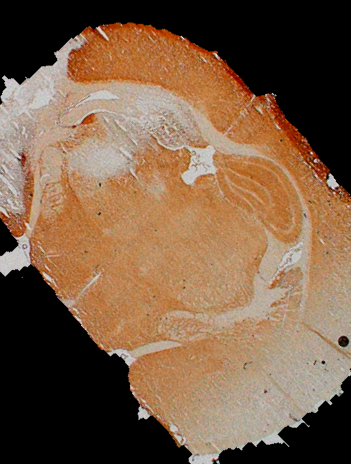
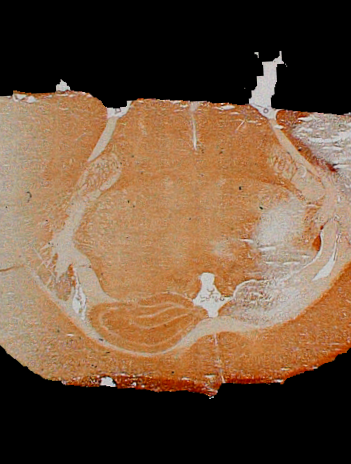
Alignment using PCA, need to fix some issues with the rotation

diff --git a/src/segmentation/rotate_image.py b/src/segmentation/rotate_image.py
@@ -10,28 +10,27 @@ def align_image(image):
     # Convert the image to grayscale
     gray = cv2.cvtColor(image, cv2.COLOR_BGR2GRAY)
 
-    # Apply Canny edge detection to find edges in the image
-    edges = cv2.Canny(gray, 50, 150, apertureSize=3)
+    # Get the coordinates of the non-zero pixels
+    y_coords, x_coords = np.nonzero(gray)
 
-    # Find the lines in the image using the HoughLinesP function
-    lines = cv2.HoughLinesP(edges, rho=1, theta=np.pi/180, threshold=100, minLineLength=100, maxLineGap=10)
+    # Use PCA to find the main axis of the pixel distribution
+    X = np.column_stack([x_coords, y_coords])
+    pca = PCA(n_components=2)
+    pca.fit(X)
+    main_axis = pca.components_[0]
 
-    # Check if lines were found
-    if lines is not None and len(lines) > 0:
-        # Calculate the angle of the first line found
-        angle = np.arctan2((lines[0][0][3]-lines[0][0][1]),(lines[0][0][2]-lines[0][0][0])) * 180/np.pi
+    # Calculate the angle between the main axis and the x-axis
+    angle = np.arctan2(main_axis[1], main_axis[0]) * 180 / np.pi
 
-        # Rotate the image by the calculated angle
-        rows,cols = image.shape[:2]
-        M = cv2.getRotationMatrix2D((cols/2,rows/2),angle,1)
-        rotated_image = cv2.warpAffine(image,M,(cols,rows))
+    # Calculate the center of rotation
+    center = ((image.shape[1]-1)/2, (image.shape[0]-1)/2)
 
-        return rotated_image
-    else:
-        # If no lines were found, return the original image
-        return image
+    # Rotate the image to align with the x-axis
+    rotation_matrix = cv2.getRotationMatrix2D(center, angle, 1.0)
+    aligned_image = cv2.warpAffine(image, rotation_matrix, (image.shape[1], image.shape[0]), flags=cv2.INTER_LINEAR)
 
-
+    return aligned_image
+   
 path1 = "data/results good"
 
 # Set the path to the folder where you want to save the processed images
